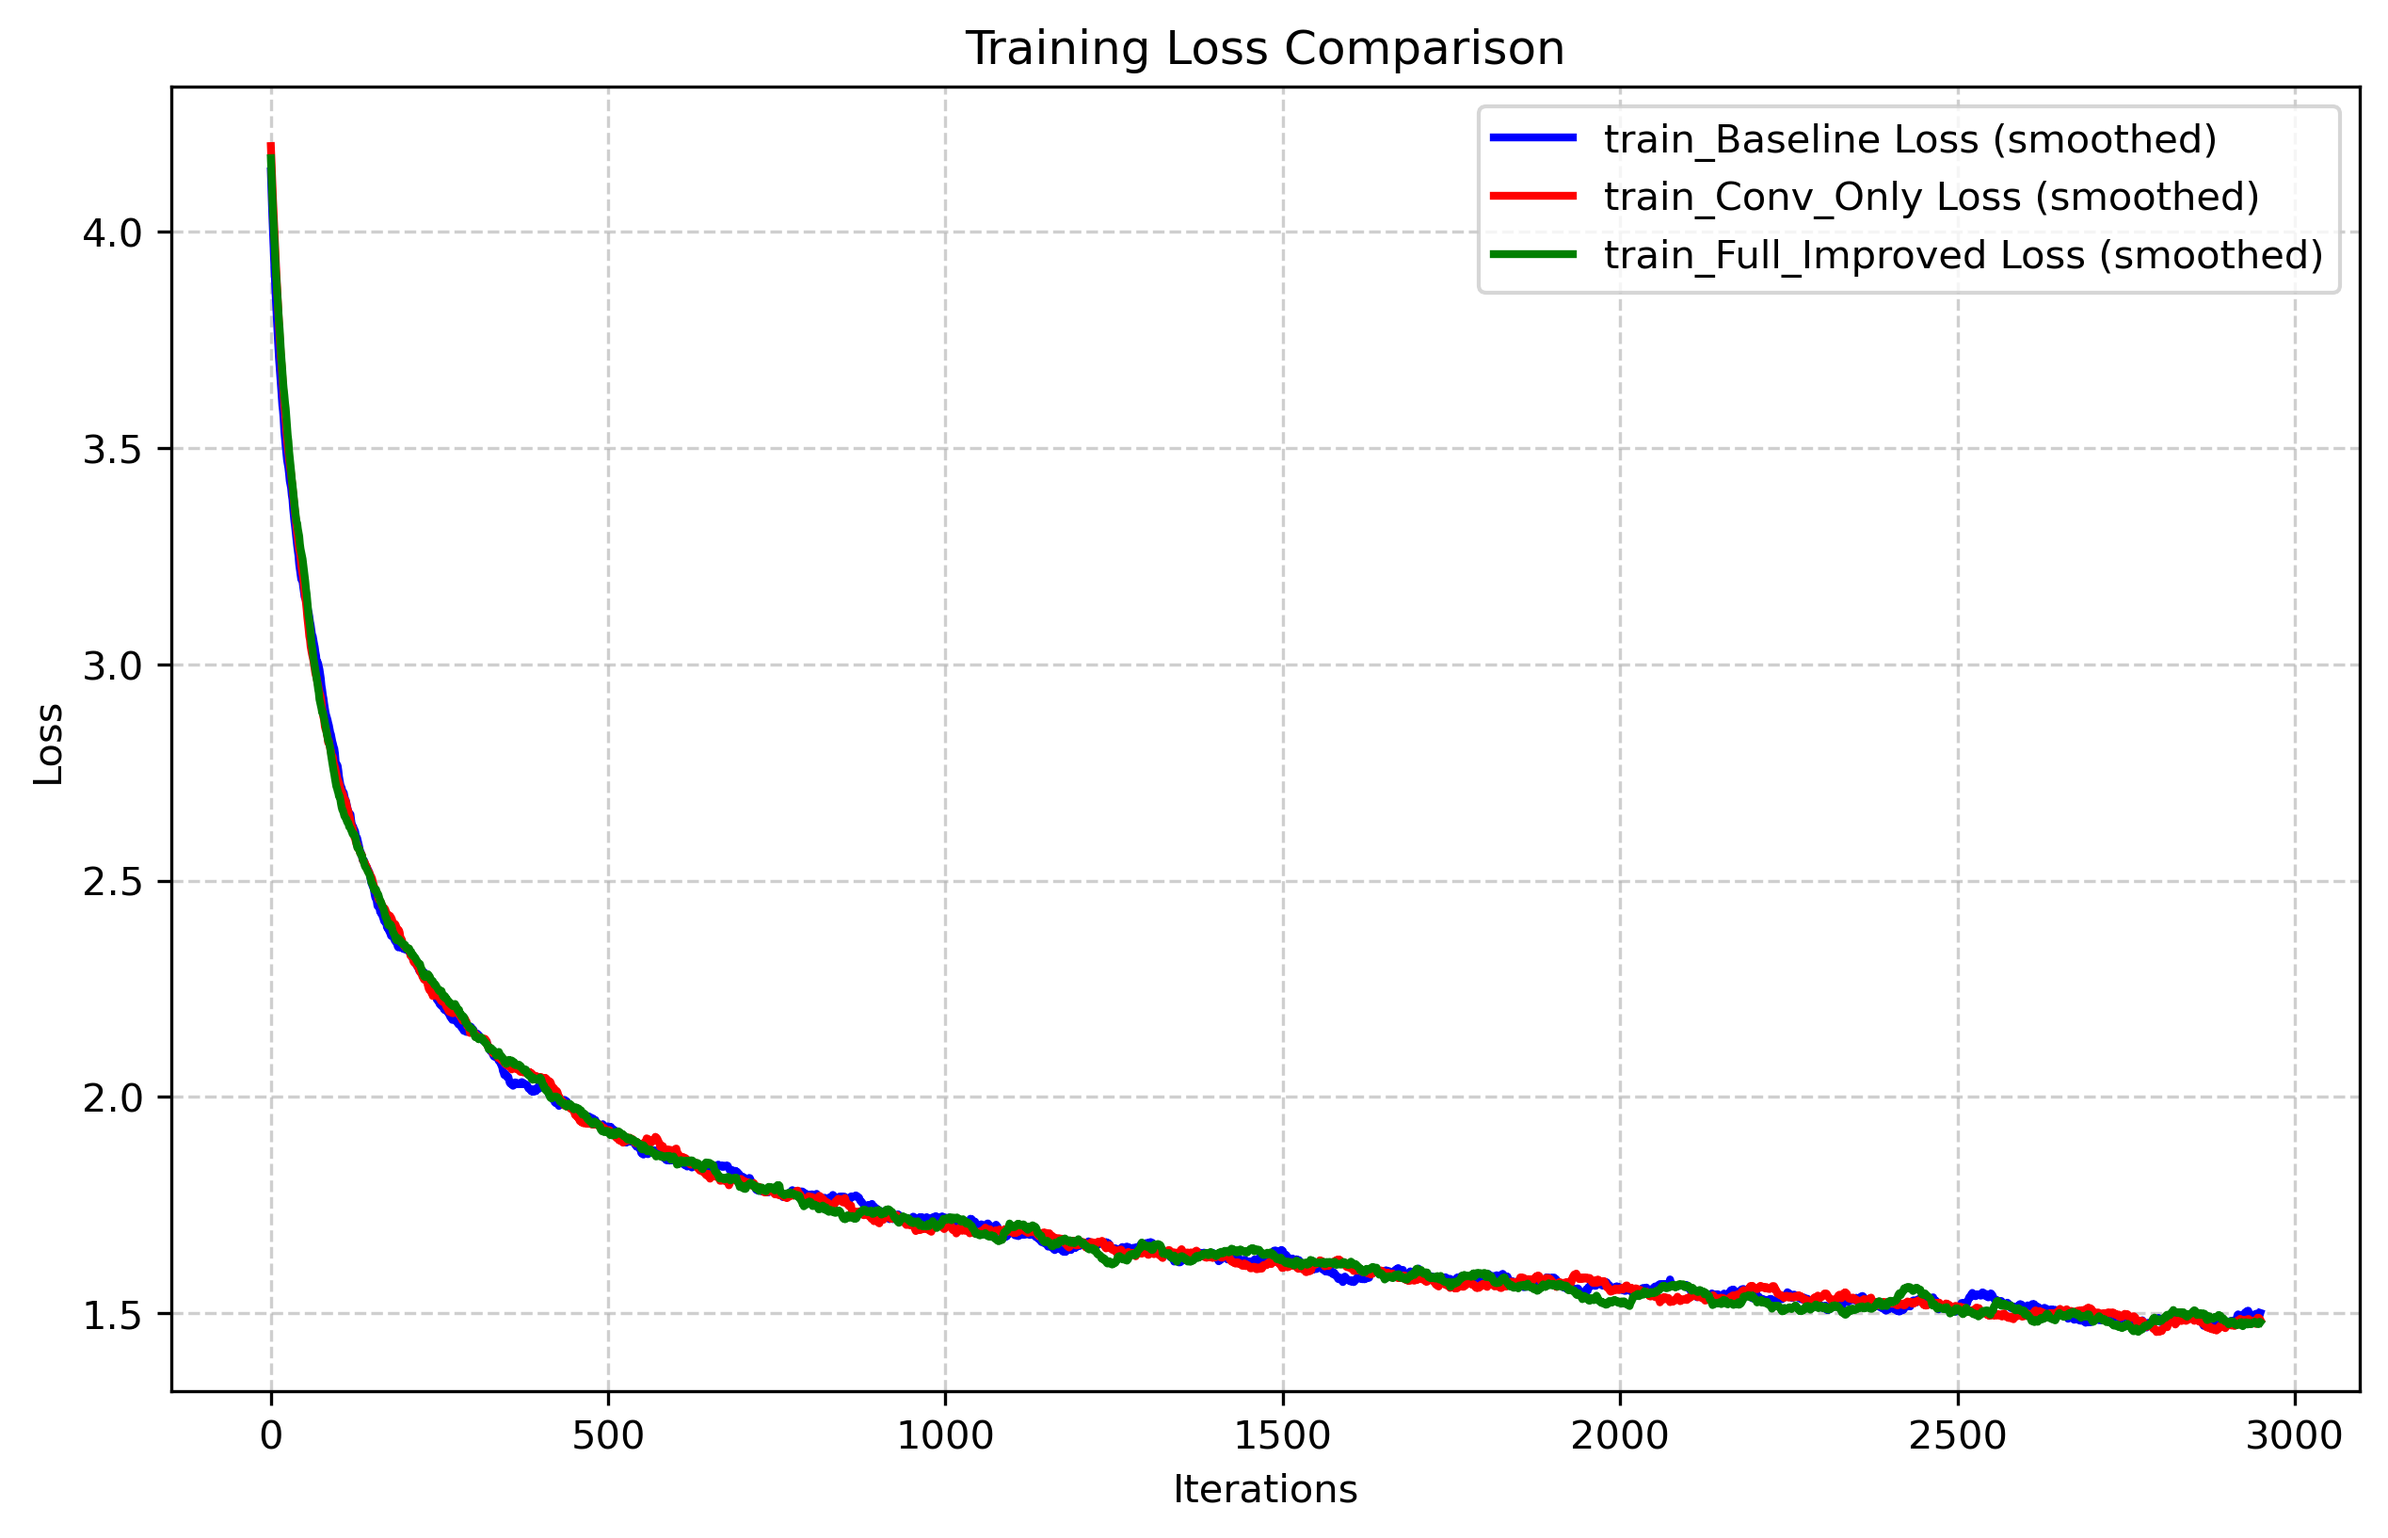
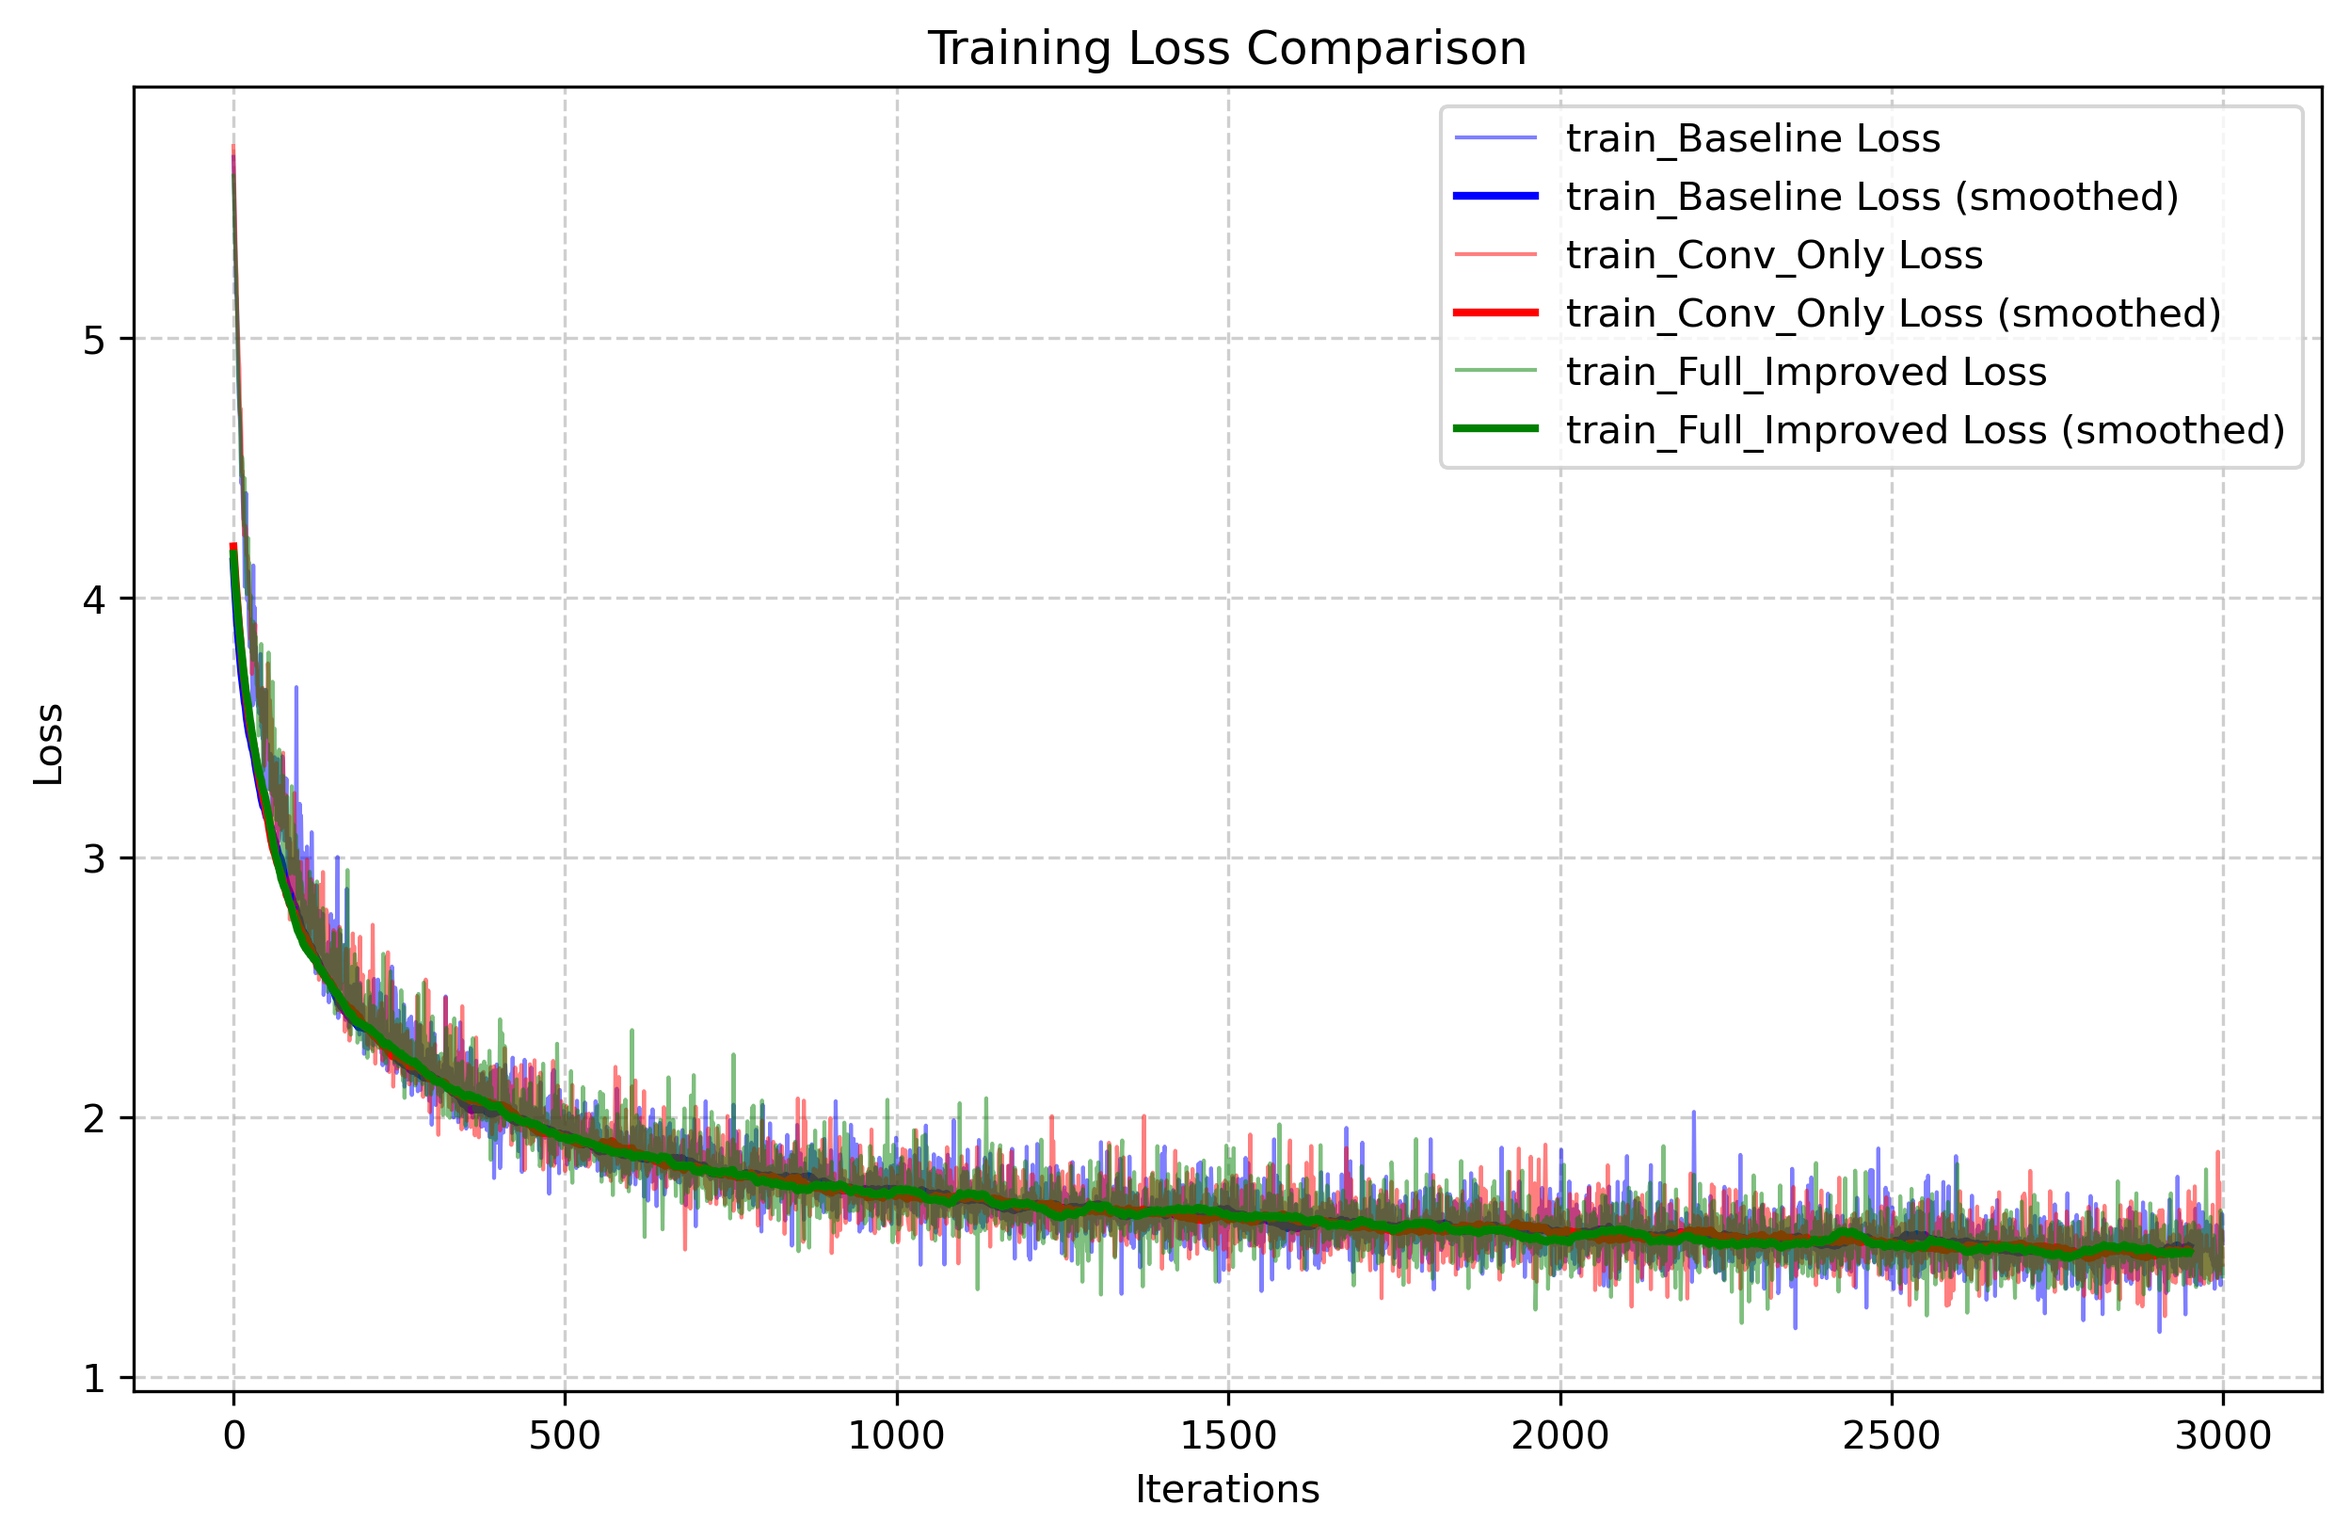
update

diff --git a/plot.py b/plot.py
@@ -36,11 +36,11 @@ for idx, log_path in enumerate(log_files):
             continue
         
         # 绘制原始 loss 曲线
-        # plt.plot(losses, 
-        #          label=plot_styles[idx]['label'], 
-        #          color=plot_styles[idx]['color'], 
-        #          alpha=0.5,  # 原始曲线透明度调低，避免重叠看不清
-        #          linewidth=1)
+        plt.plot(losses, 
+                 label=plot_styles[idx]['label'], 
+                 color=plot_styles[idx]['color'], 
+                 alpha=0.5,  # 原始曲线透明度调低，避免重叠看不清
+                 linewidth=1)
         
         # 对数据量多的文件做平滑处理（移动平均）
         if len(losses) > 100:

diff --git a/README.md b/README.md
@@ -1,16 +1,13 @@
-## Linear Attention Transformer
-
+## Linear Attention Transformer (Improved Version)
 <img src="./linear-attention.png" width="700px" />
+本项目是一个全功能的 Transformer 框架，核心特点是融合了局部注意力 (QK^T)V 与全局线性注意力 $Q(K^Tv)$。通过数学变换，将标准自注意力的复杂度从 $O(N^2)$ 降低至线性水平 $O(N)$，特别适用于长序列语言建模任务（如蛋白质序列分析、超长文档处理等）。
+主要特性线性复杂度：全局注意力计算不再随序列长度呈平方增长，显存占用极大优化。
+自主改进 - 门控机制 (Gate Control)：在 linear_attn 中引入 sigmoid 门控逻辑，动态过滤非关键信息，增强记忆管理能力 。
+自主改进 - 局部卷积增强 (Local Conv)：在注意力层中集成 $3 \times 1$ 卷积，利用局部归纳偏置补偿线性注意力在捕捉临近语义时的不足 。
+可逆网络 (Reversible Layers)：集成可逆序列技术，进一步节省深度模型训练时的激活内存占用。
+兼容性：支持因果掩码（Causal Masking）、Token Shifting（单位置偏移）以加速收敛 。
 
-[![PyPI version](https://badge.fury.io/py/linear-attention-transformer.svg)](https://badge.fury.io/py/linear-attention-transformer)
-
-A fully featured Transformer that mixes (QKᵀ)V local attention with Q(KᵀV) global attention (scales linearly with respect to sequence length) for efficient long-range language modeling.
-
-## Install
-
-```bash
-$ pip install linear-attention-transformer
-```
+实验探究本项目在 enwik8 数据集上进行了对比实验（详见 convergence_comparison.png）：Baseline: 标准线性注意力。Conv_Only: 引入局部卷积增强的版本 8。Full_Improved: 同时启用门控机制与卷积增强的版本，实验表明该版本在长序列建模的 BPC 指标上表现更优。
 
 ## Usage
 
